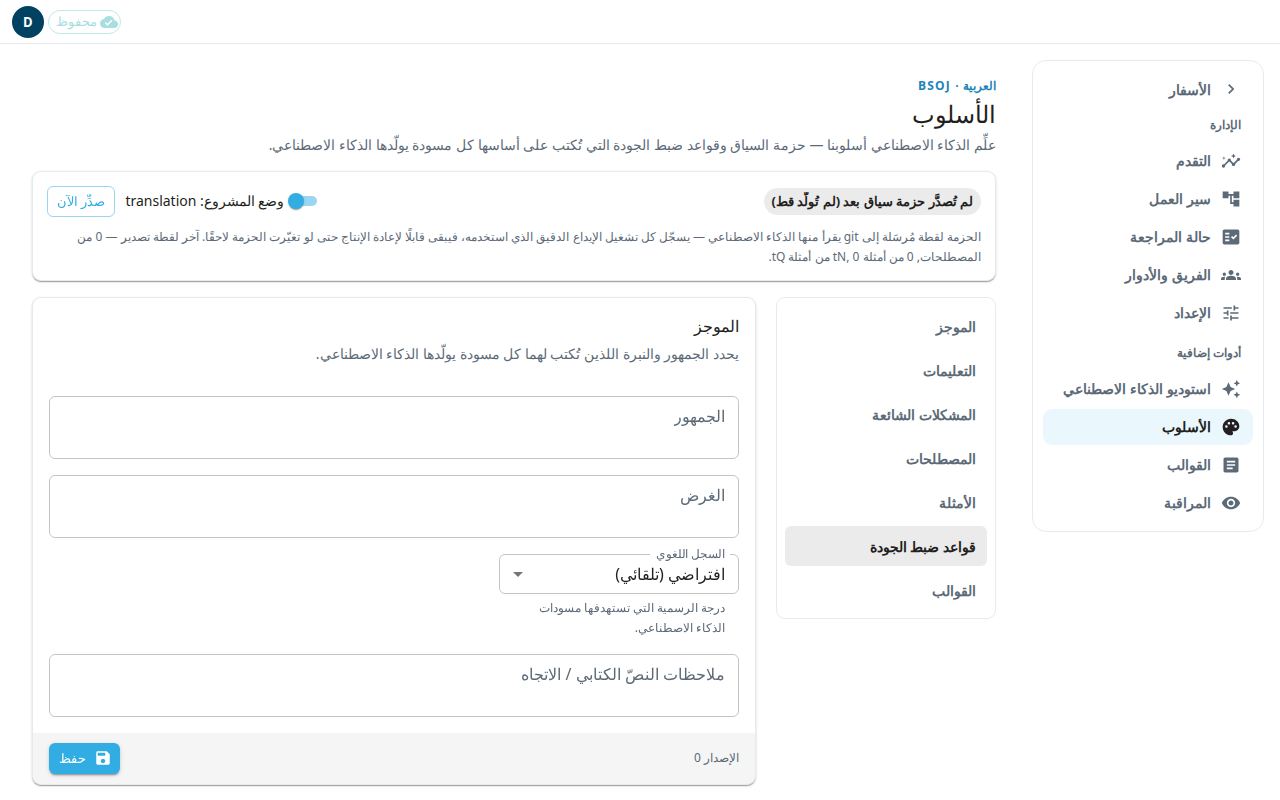
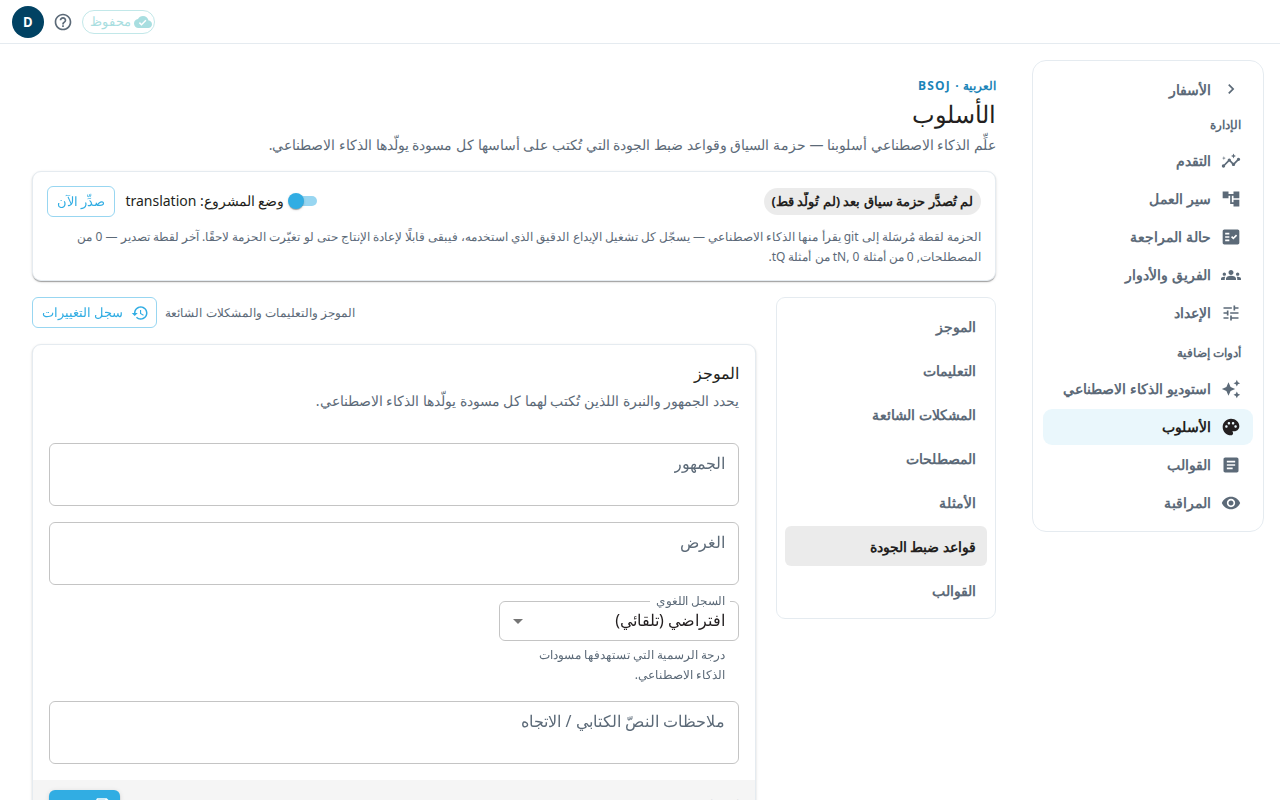
Preferences history: review fixes and Style screenshots (#788)
An entry whose stored change can't be read now comes back as changed: null and the restore refuses to cross it, instead of treating it as 'no changes'. Restore buttons stay disabled while the list reloads, name their version for screen readers, and the confirm dialog keeps its version number while it closes. Regenerated the Style guide screenshots so they show the History button.

Claude-Session: https://claude.ai/code/session_01RtcQrM4hbCDZg9Pw69viw9

diff --git a/web/src/components/PrefsHistoryDialog.tsx b/web/src/components/PrefsHistoryDialog.tsx
@@ -72,6 +72,13 @@ function PrefsHistoryDialog({ onClose, apply, onRestored }: Props & { onClose: (
   const [error, setError] = useState(false);
   const [msg, setMsg] = useState<{ severity: "success" | "warning" | "error"; text: string } | null>(null);
   const [confirm, setConfirm] = useState<number | null>(null);
+  // The version the confirm dialog names; kept after it closes so the title
+  // doesn't flash "version 0" during the close animation.
+  const [shownTarget, setShownTarget] = useState(0);
+  const ask = (v: number) => {
+    setShownTarget(v);
+    setConfirm(v);
+  };
   const [restoring, setRestoring] = useState(false);
   const [reloadKey, setReloadKey] = useState(0);
 
@@ -181,8 +188,8 @@ function PrefsHistoryDialog({ onClose, apply, onRestored }: Props & { onClose: (
               entry={e}
               isCurrent={e.new_version === currentVersion}
               canRestore={restorable.has(e.new_version) && e.new_version !== currentVersion}
-              busy={restoring}
-              onRestore={() => setConfirm(e.new_version)}
+              busy={restoring || loading}
+              onRestore={() => ask(e.new_version)}
             />
           ))}
           {beforeOldest !== null && (
@@ -195,8 +202,9 @@ function PrefsHistoryDialog({ onClose, apply, onRestored }: Props & { onClose: (
                 <Button
                   size="small"
                   startIcon={<RestoreIcon />}
-                  disabled={restoring}
-                  onClick={() => setConfirm(beforeOldest)}
+                  disabled={restoring || loading}
+                  aria-label={t("prefsHistory.restoreVersion", { version: beforeOldest })}
+                  onClick={() => ask(beforeOldest)}
                 >
                   {t("prefsHistory.restore")}
                 </Button>
@@ -218,9 +226,9 @@ function PrefsHistoryDialog({ onClose, apply, onRestored }: Props & { onClose: (
       </DialogActions>
 
       <Dialog open={confirm !== null} onClose={() => setConfirm(null)} aria-labelledby="prefs-restore-title">
-        <DialogTitle id="prefs-restore-title">{t("prefsHistory.confirmTitle", { version: confirm ?? 0 })}</DialogTitle>
+        <DialogTitle id="prefs-restore-title">{t("prefsHistory.confirmTitle", { version: shownTarget })}</DialogTitle>
         <DialogContent>
-          <DialogContentText>{t("prefsHistory.confirmBody", { version: confirm ?? 0 })}</DialogContentText>
+          <DialogContentText>{t("prefsHistory.confirmBody", { version: shownTarget })}</DialogContentText>
         </DialogContent>
         <DialogActions>
           <Button onClick={() => setConfirm(null)}>{t("preferences.cancel")}</Button>
@@ -247,7 +255,7 @@ function EntryCard({
   onRestore: () => void;
 }) {
   const { t } = useTranslation();
-  const fields = PREFS_HISTORY_FIELDS.filter((f) => entry.changed[f]);
+  const fields = PREFS_HISTORY_FIELDS.filter((f) => entry.changed?.[f]);
   return (
     <Box
       data-testid="prefs-history-entry"
@@ -269,19 +277,29 @@ function EntryCard({
           })}
         </Typography>
         {canRestore && (
-          <Button size="small" startIcon={<RestoreIcon />} disabled={busy} onClick={onRestore}>
+          <Button
+            size="small"
+            startIcon={<RestoreIcon />}
+            disabled={busy}
+            aria-label={t("prefsHistory.restoreVersion", { version: entry.new_version })}
+            onClick={onRestore}
+          >
             {t("prefsHistory.restore")}
           </Button>
         )}
       </Stack>
-      {fields.length === 0 ? (
+      {entry.changed === null ? (
+        <Typography variant="body2" color="warning.main">
+          {t("prefsHistory.unreadable")}
+        </Typography>
+      ) : fields.length === 0 ? (
         <Typography variant="body2" color="text.secondary">
           {t("prefsHistory.noChanges")}
         </Typography>
       ) : (
         <Stack spacing={1.25}>
           {fields.map((f) => (
-            <FieldDiff key={f} field={f} change={entry.changed[f]!} />
+            <FieldDiff key={f} field={f} change={entry.changed![f]!} />
           ))}
         </Stack>
       )}

diff --git a/web/src/lib/prefsHistory.ts b/web/src/lib/prefsHistory.ts
@@ -33,7 +33,8 @@ export interface PrefsHistoryEntry {
   prev_version: number;
   new_version: number;
   created_at: number;
-  changed: Partial<Record<PrefsHistoryField, { prev: string | null; new: string | null }>>;
+  /** null when the stored change could not be read: a rebuild must not cross it. */
+  changed: Partial<Record<PrefsHistoryField, { prev: string | null; new: string | null }>> | null;
 }
 
 export type RebuildResult =
@@ -60,7 +61,8 @@ export function restorableVersions(entries: PrefsHistoryEntry[], complete: boole
  * - "stale": the newest entry is not the current version (a save landed
  *   after the list was read, or the list is out of date);
  * - "gap": two neighbouring entries don't chain (prev_version of one is not
- *   the new_version of the next), so some change in between is unknown;
+ *   the new_version of the next), or an entry's change could not be read,
+ *   so some change in between is unknown;
  * - "not_found": the loaded entries don't reach back to `target`.
  */
 export function rebuildPrefsVersion(
@@ -76,7 +78,7 @@ export function rebuildPrefsVersion(
   if (!first || first.new_version !== current.version) return { ok: false, reason: "stale" };
   let at = current.version;
   for (const e of entriesNewestFirst) {
-    if (e.new_version !== at) return { ok: false, reason: "gap" };
+    if (e.new_version !== at || !e.changed) return { ok: false, reason: "gap" };
     for (const [f, v] of Object.entries(e.changed)) {
       if ((PREFS_HISTORY_FIELDS as readonly string[]).includes(f) && v) {
         fields[f as PrefsHistoryField] = v.prev;

diff --git a/api/src/translationMemory.ts b/api/src/translationMemory.ts
@@ -298,12 +298,15 @@ translationMemory.get("/prefs/history", requireAdmin, async (c) => {
   const rows = results ?? [];
   const page = rows.slice(0, limit);
   const entries = page.map(({ payload_json, ...e }) => {
-    let changed: Record<string, { prev: string | null; new: string | null }> = {};
+    // null = the stored change can't be read. The list still shows the entry,
+    // and the client refuses to rebuild across it rather than treat it as
+    // "nothing changed".
+    let changed: Record<string, { prev: string | null; new: string | null }> | null = null;
     try {
       const p = payload_json ? JSON.parse(payload_json) : null;
-      if (p && typeof p.changed === "object" && p.changed !== null) changed = p.changed;
+      if (p && typeof p.changed === "object" && p.changed !== null && !Array.isArray(p.changed)) changed = p.changed;
     } catch {
-      // A garbled payload shows as "no changes" rather than failing the list.
+      // left null
     }
     return { ...e, changed };
   });

diff --git a/.claude/state/agent-a39ff977400b575a4.md b/.claude/state/agent-a39ff977400b575a4.md
@@ -2,5 +2,5 @@
 
 Issue #788: preferences change history + restore. Delete this file in the PR that merges it.
 
-- API route, client helper, shared dialog, both surfaces, i18n, help text: written.
-- Pending: guide screenshots, live Playwright check on both surfaces, PR, multi-model review.
+- Code, tests, i18n, help text, Style screenshots: done. Live check on both surfaces passed (headless Playwright, real chat save via the MCP endpoint).
+- Pending: PR review outcome. Follow-up chat tool is #798.
